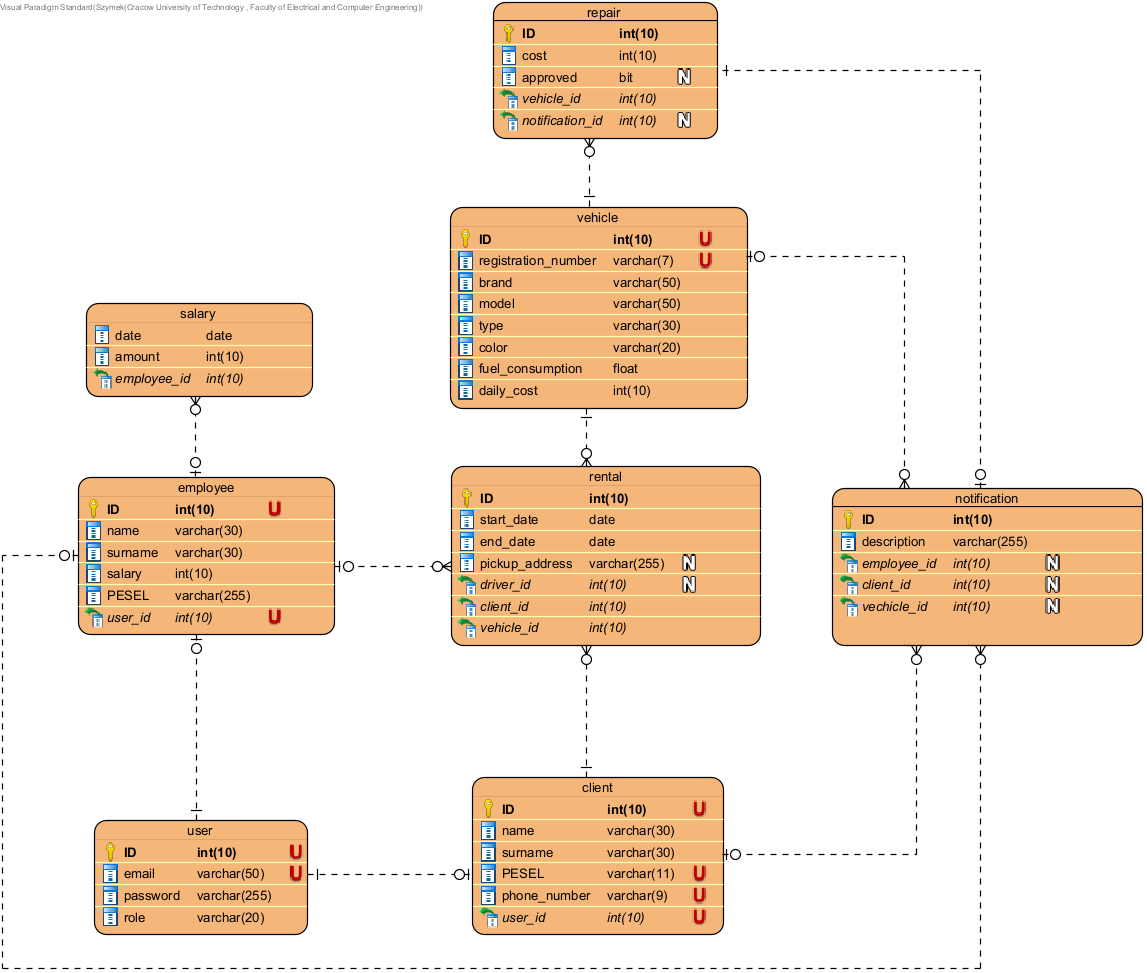
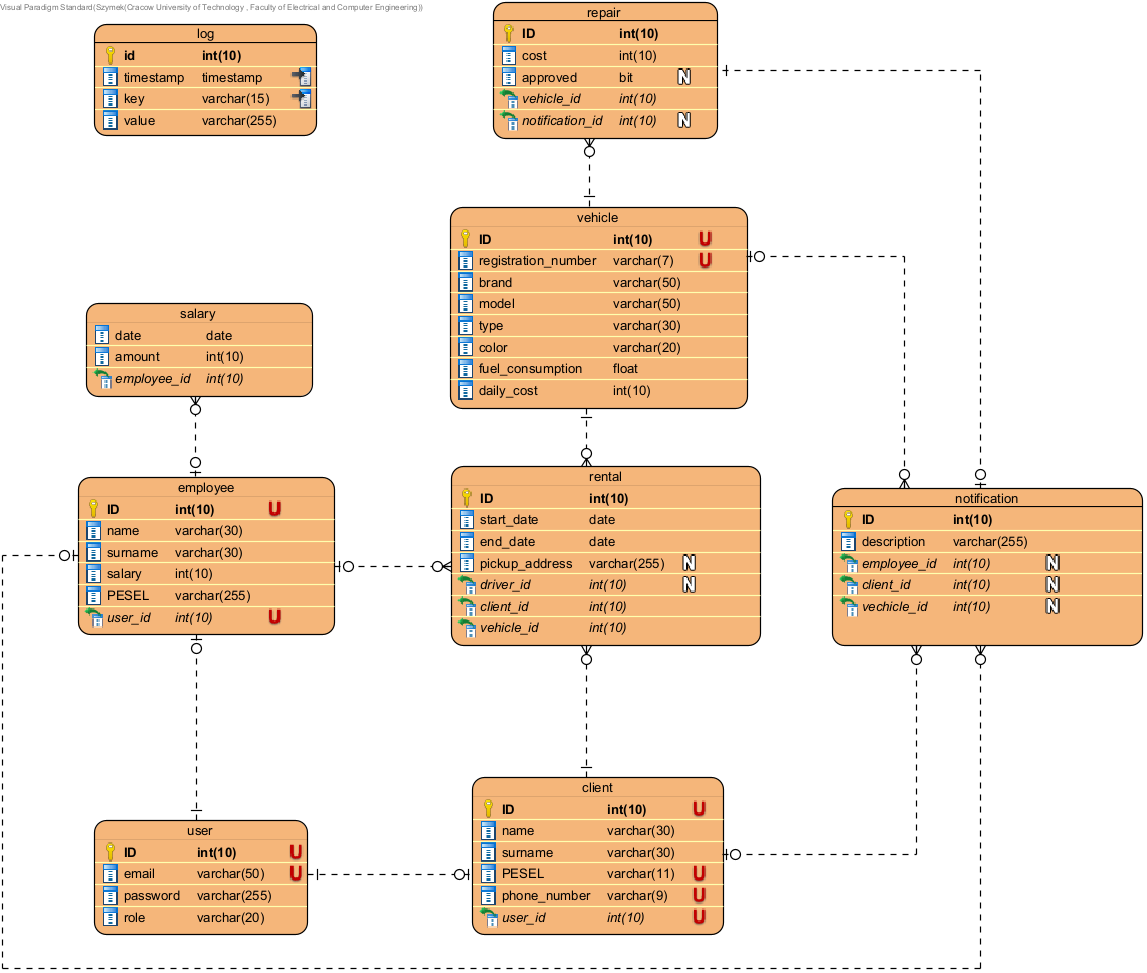
#16 issue complete

Changed region(s): [[0.061, 0.0, 0.2746, 0.1542]]

diff --git a/backend/pkg/controller/log_controller.go b/backend/pkg/controller/log_controller.go
@@ -1,0 +1,114 @@
+package controller
+
+import (
+	"fmt"
+	"net/http"
+
+	"github.com/SzymekN/Car-rental-app/pkg/auth"
+	"github.com/SzymekN/Car-rental-app/pkg/executor"
+	"github.com/SzymekN/Car-rental-app/pkg/model"
+	"github.com/SzymekN/Car-rental-app/pkg/producer"
+
+	"github.com/labstack/echo/v4"
+)
+
+type LogHandler struct {
+	sysOperator producer.SystemOperator
+	authConf    auth.AuthConfig
+	group       *echo.Group
+}
+
+func NewLogHandler(sysOp producer.SystemOperator, ac auth.AuthConfig, g *echo.Group) *LogHandler {
+	uh := &LogHandler{
+		sysOperator: sysOp,
+		group:       g,
+		authConf:    ac,
+	}
+	fmt.Println(sysOp)
+	return uh
+}
+
+func (uh *LogHandler) RegisterRoutes() {
+	uh.group.POST("/logs/info", uh.GetById, uh.authConf.IsAuthorized)
+	uh.group.GET("/logs/all", uh.GetAll, uh.authConf.IsAuthorized)
+	uh.group.POST("/logs", uh.Save, uh.authConf.IsAuthorized)
+	uh.group.POST("/logs/get-range", uh.GetFromRange, uh.authConf.IsAuthorized)
+	uh.group.PUT("/logs", uh.Update, uh.authConf.IsAuthorized)
+	uh.group.DELETE("/logs", uh.Delete, uh.authConf.IsAuthorized)
+}
+
+func (uh *LogHandler) Save(c echo.Context) error {
+	d, l := executor.GenericPost(c, uh.sysOperator, model.Notification{})
+	return HandleRequestResult(c, d, l)
+}
+
+func (uh *LogHandler) Update(c echo.Context) error {
+	d, l := executor.GenericUpdate(c, uh.sysOperator, model.Notification{})
+	return HandleRequestResult(c, d, l)
+}
+
+func (uh *LogHandler) Delete(c echo.Context) error {
+	d, l := executor.GenericDelete(c, uh.sysOperator, model.Notification{})
+	return HandleRequestResult(c, d, l)
+}
+
+func (uh *LogHandler) GetById(c echo.Context) error {
+	d, l := executor.GenericGetById(c, uh.sysOperator, model.Notification{})
+	return HandleRequestResult(c, d, l)
+}
+
+func (uh *LogHandler) GetAll(c echo.Context) error {
+	d, l := executor.GenericGetAll(c, uh.sysOperator, []model.Log{})
+	return HandleRequestResult(c, d, l)
+}
+
+type LogRequest struct {
+	Batch_nr int `json:"batch_nr"`
+}
+
+func (uh *LogHandler) GetFromRange(c echo.Context) error {
+
+	db := uh.sysOperator.GetDB()
+	prefix := fmt.Sprintf("GetLogFromRange ")
+	logs := []model.Log{}
+	lReq := LogRequest{}
+	logger := uh.sysOperator.SystemLogger
+	logger.Log = producer.Log{}
+
+	defer func() {
+		logger.Log.Msg = fmt.Sprintf("%s %s", prefix, logger.Log.Msg)
+		logger.ProduceWithJSON(c)
+	}()
+
+	lReq, logger.Log = executor.BindData(c, lReq)
+	if logger.Err != nil {
+		return logger.Err
+	}
+
+	batchNr := lReq.Batch_nr
+
+	result := db.Debug().Model(&model.Log{}).Select("*").Where("id < ((SELECT MAX(id) from log)-50*?)", batchNr).Order("id desc").Limit(50)
+	result.Scan(&logs)
+	logger.Log = executor.CheckResultError(result)
+
+	if logger.Log.Err != nil {
+		return logger.Log.Err
+	}
+
+	logger.Log = executor.CheckIfAffected(result)
+
+	if logger.Log.Err != nil {
+		logger.Log = producer.Log{
+			Key:  "info",
+			Msg:  fmt.Sprintf("[INFO] completed, HTTP: %v", http.StatusNotFound),
+			Code: http.StatusNotFound,
+			Err:  nil}
+		fmt.Println(logger.Log)
+		return c.JSON(404, producer.GenericMessage{Message: "No more logs"})
+	}
+
+	logger.Log.Code = http.StatusOK
+	logger.Log.Key = "info"
+	logger.Log.Msg = fmt.Sprintf("[INFO] completed, HTTP: %v", logger.Log.Code)
+	return c.JSON(200, logs)
+}

diff --git a/backend/pkg/producer/system_logger.go b/backend/pkg/producer/system_logger.go
@@ -1,8 +1,6 @@
 package producer
 
 import (
-	"fmt"
-
 	"github.com/labstack/echo/v4"
 )
 
@@ -16,26 +14,29 @@ type LogProducer interface {
 }
 
 func (sl SystemLogger) ProduceLog() {
-	fmt.Println("SO: ", sl)
+	// fmt.Println("SO: ", sl)
 	if sl.Err != nil {
 		sl.Msg += ", err:" + sl.Err.Error()
 	}
+	go LogToDB(sl.Key, sl.Msg)
 	go sl.ProduceMessage(sl.Key, sl.Msg)
 }
 
 func (sl SystemLogger) ProduceWithJSON(c echo.Context) {
-	fmt.Println("SO: ", sl)
+	// fmt.Println("SO: ", sl)
 	if sl.Err != nil {
 		sl.Msg += ", err:" + sl.Err.Error()
 		c.JSON(sl.Code, &GenericMessage{Message: sl.Msg})
 	}
+	go LogToDB(sl.Key, sl.Msg)
 	go sl.ProduceMessage(sl.Key, sl.Msg)
 }
 func (sl SystemLogger) Produce() {
-	fmt.Println("SO: ", sl)
+	// fmt.Println("SO: ", sl)
 	// if sl.Err != nil {
 	// 	sl.Msg += ", err:" + sl.Err.Error()
 	// 	c.JSON(sl.Code, &GenericMessage{Message: sl.Msg})
 	// }
+	go LogToDB(sl.Key, sl.Msg)
 	go sl.ProduceMessage(sl.Key, sl.Msg)
 }

diff --git a/backend/pkg/controller/clients_controller.go b/backend/pkg/controller/clients_controller.go
@@ -167,6 +167,9 @@ func (uh *ClientHandler) GetProfileInfo(c echo.Context) error {
 		return logger.Err
 	}
 
+	logger.Log.Code = http.StatusOK
+	logger.Log.Key = "info"
+	logger.Log.Msg = fmt.Sprintf("[INFO] completed, HTTP: %v", logger.Log.Code)
 	return c.JSON(logger.Code, pi)
 
 }
@@ -209,6 +212,9 @@ func (uh *ClientHandler) UpdateSelf(c echo.Context) error {
 		return logger.Err
 	}
 
+	logger.Log.Code = http.StatusOK
+	logger.Log.Key = "info"
+	logger.Log.Msg = fmt.Sprintf("[INFO] completed, HTTP: %v", logger.Log.Code)
 	return c.JSON(logger.Code, mc)
 
 }
@@ -252,6 +258,15 @@ func (uh *ClientHandler) DeleteSelf(c echo.Context) error {
 	}
 
 	d, l := executor.GenericDelete(c, uh.sysOperator, mu)
+
+	logger.Log = l
+	if logger.Err != nil {
+		return logger.Err
+	}
+
+	logger.Log.Code = http.StatusOK
+	logger.Log.Key = "info"
+	logger.Log.Msg = fmt.Sprintf("[INFO] completed, HTTP: %v", logger.Log.Code)
 	return c.JSON(l.Code, d)
 
 }

diff --git a/backend/pkg/controller/rentals_controller.go b/backend/pkg/controller/rentals_controller.go
@@ -109,6 +109,10 @@ func (uh *RentalHandler) RentForUser(c echo.Context) error {
 	if logger.Err != nil {
 		return logger.Err
 	}
+
+	logger.Log.Code = http.StatusOK
+	logger.Log.Key = "info"
+	logger.Log.Msg = fmt.Sprintf("[INFO] completed, HTTP: %v", logger.Log.Code)
 	return c.JSON(l.Code, d)
 
 }
@@ -166,6 +170,10 @@ func (uh *RentalHandler) SaveSelf(c echo.Context) error {
 	if logger.Err != nil {
 		return logger.Err
 	}
+
+	logger.Log.Code = http.StatusOK
+	logger.Log.Key = "info"
+	logger.Log.Msg = fmt.Sprintf("[INFO] completed, HTTP: %v", logger.Log.Code)
 	return c.JSON(l.Code, d)
 }
 
@@ -192,6 +200,9 @@ func (uh *RentalHandler) GetSelf(c echo.Context) error {
 		return logger.Err
 	}
 
+	logger.Log.Code = http.StatusOK
+	logger.Log.Key = "info"
+	logger.Log.Msg = fmt.Sprintf("[INFO] completed, HTTP: %v", logger.Log.Code)
 	return c.JSON(l.Code, mrs)
 }
 

diff --git a/backend/pkg/producer/system_operator.go b/backend/pkg/producer/system_operator.go
@@ -1,6 +1,11 @@
 package producer
 
 import (
+	"fmt"
+	"strings"
+	"time"
+
+	"github.com/SzymekN/Car-rental-app/pkg/model"
 	"gorm.io/gorm"
 )
 
@@ -13,11 +18,27 @@ func (sl SystemOperator) GetDB() *gorm.DB {
 	return sl.DB
 }
 
+var global_db *gorm.DB
+
+func LogToDB(k, v string) {
+	k = strings.TrimSpace(k)
+	v = strings.TrimSpace(v)
+	l := model.Log{
+		Timestamp: time.Now(),
+		Key:       k,
+		Value:     v,
+	}
+	if err := global_db.Create(&l).Error; err != nil {
+		fmt.Println("Error while inserting log")
+	}
+}
+
 func NewSystemOperator(db *gorm.DB, l SystemLogger) SystemOperator {
 	so := SystemOperator{
 		DB:           db,
 		SystemLogger: l,
 	}
+	global_db = so.DB
 	return so
 }
 

diff --git a/backend/pkg/controller/vehicles_controller.go b/backend/pkg/controller/vehicles_controller.go
@@ -3,6 +3,7 @@ package controller
 import (
 	"errors"
 	"fmt"
+	"net/http"
 	"time"
 
 	"github.com/SzymekN/Car-rental-app/pkg/auth"
@@ -112,6 +113,9 @@ func (uh *VehicleHandler) GetAvailable(c echo.Context) error {
 		return logger.Log.Err
 	}
 
+	logger.Log.Code = http.StatusOK
+	logger.Log.Key = "info"
+	logger.Log.Msg = fmt.Sprintf("[INFO] completed, HTTP: %v", logger.Log.Code)
 	return c.JSON(logger.Code, vehicles)
 	// return HandleRequestResult(c, vehicles, l)
 }

diff --git a/backend/pkg/auth/jwt_query_executor.go b/backend/pkg/auth/jwt_query_executor.go
@@ -144,8 +144,8 @@ func (j JWTQueryExecutor) GetToken(token string) (bool, error) {
 	fmt.Println(rdb)
 	_, err := rdb.Get(j.Ctx, token).Result()
 	if err != nil {
-		code := http.StatusInternalServerError
-		msg := fmt.Sprintf("[ERROR]: Reading token failure , HTTP: %v", code)
+		code := http.StatusOK
+		msg := fmt.Sprintf("[INFO]: Token not invalidated, HTTP: %v", code)
 		logger.Log.Populate("err", msg, code, err)
 		return false, err
 	}

diff --git a/backend/pkg/controller/setup.go b/backend/pkg/controller/setup.go
@@ -43,6 +43,7 @@ func SetupRouter(svr *server.Server) {
 	mc.handlers = append(mc.handlers, NewUserHandler(systemOperator, authConf, jwt_auth))
 	mc.handlers = append(mc.handlers, NewVehicleHandler(systemOperator, authConf, jwt_auth))
 	mc.handlers = append(mc.handlers, NewRentalHandler(systemOperator, authConf, jwt_auth))
+	mc.handlers = append(mc.handlers, NewLogHandler(systemOperator, authConf, jwt_auth))
 
 	mc.RegisterAllRoutes()
 

diff --git a/backend/pkg/controller/users_controller.go b/backend/pkg/controller/users_controller.go
@@ -195,6 +195,15 @@ func (uh *UserHandler) UpdatePassword(c echo.Context) error {
 
 	mu.Password = newPassword
 	d, l := executor.GenericUpdate(c, uh.sysOperator, mu)
+
+	logger.Log = l
+	if logger.Err != nil {
+		return logger.Err
+	}
+
+	logger.Log.Code = http.StatusOK
+	logger.Log.Key = "info"
+	logger.Log.Msg = fmt.Sprintf("[INFO] completed, HTTP: %v", logger.Log.Code)
 	return c.JSON(l.Code, d)
 
 }

diff --git a/backend/pkg/model/rental_model.go b/backend/pkg/model/rental_model.go
@@ -3,7 +3,7 @@ package model
 import "time"
 
 type Rental struct {
-	ID            int       `json:"id"`
+	ID            int       `json:"id,omitempty"`
 	StartDate     time.Time `json:"start_date,omitempty"`
 	EndDate       time.Time `json:"end_date,omitempty"`
 	PickupAddress string    `json:"pickup_address,omitempty"`

diff --git a/backend/pkg/model/vehicle_model.go b/backend/pkg/model/vehicle_model.go
@@ -1,7 +1,7 @@
 package model
 
 type Vehicle struct {
-	ID                 int     `json:"id"`
+	ID                 int     `json:"id,omitempty"`
 	RegistrationNumber string  `json:"registrationNumber,omitempty"`
 	Brand              string  `json:"brand,omitempty"`
 	Model              string  `json:"model,omitempty"`

diff --git a/backend/pkg/model/notification_model.go b/backend/pkg/model/notification_model.go
@@ -1,7 +1,7 @@
 package model
 
 type Notification struct {
-	ID          int    `json:"id"`
+	ID          int    `json:"id,omitempty"`
 	Description string `json:"description,omitempty"`
 	EmployeeID  *int   `json:"employee_id,omitempty" default:"nil"`
 	ClientID    *int   `json:"client_id,omitempty" default:"nil"`
